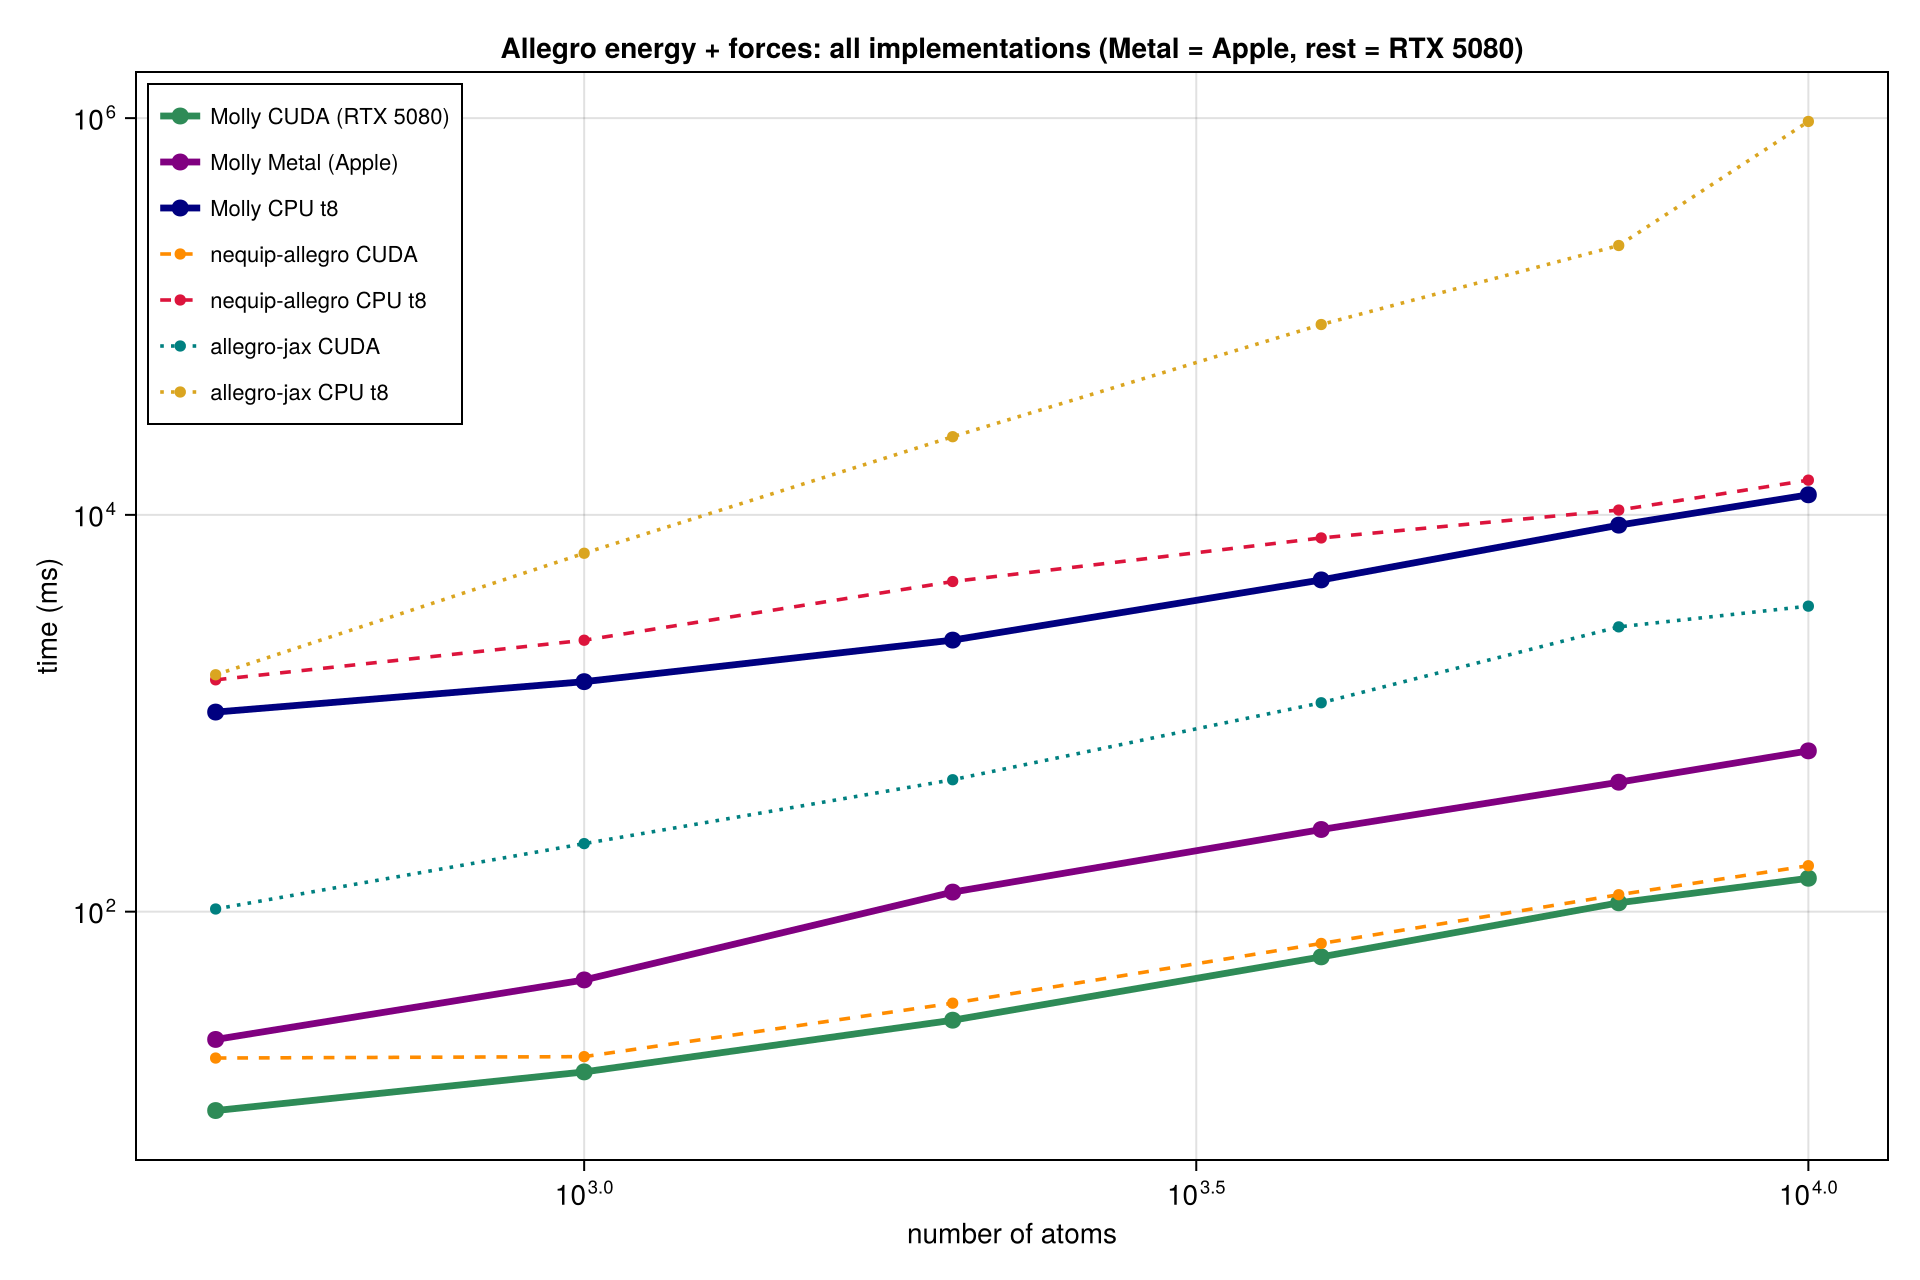
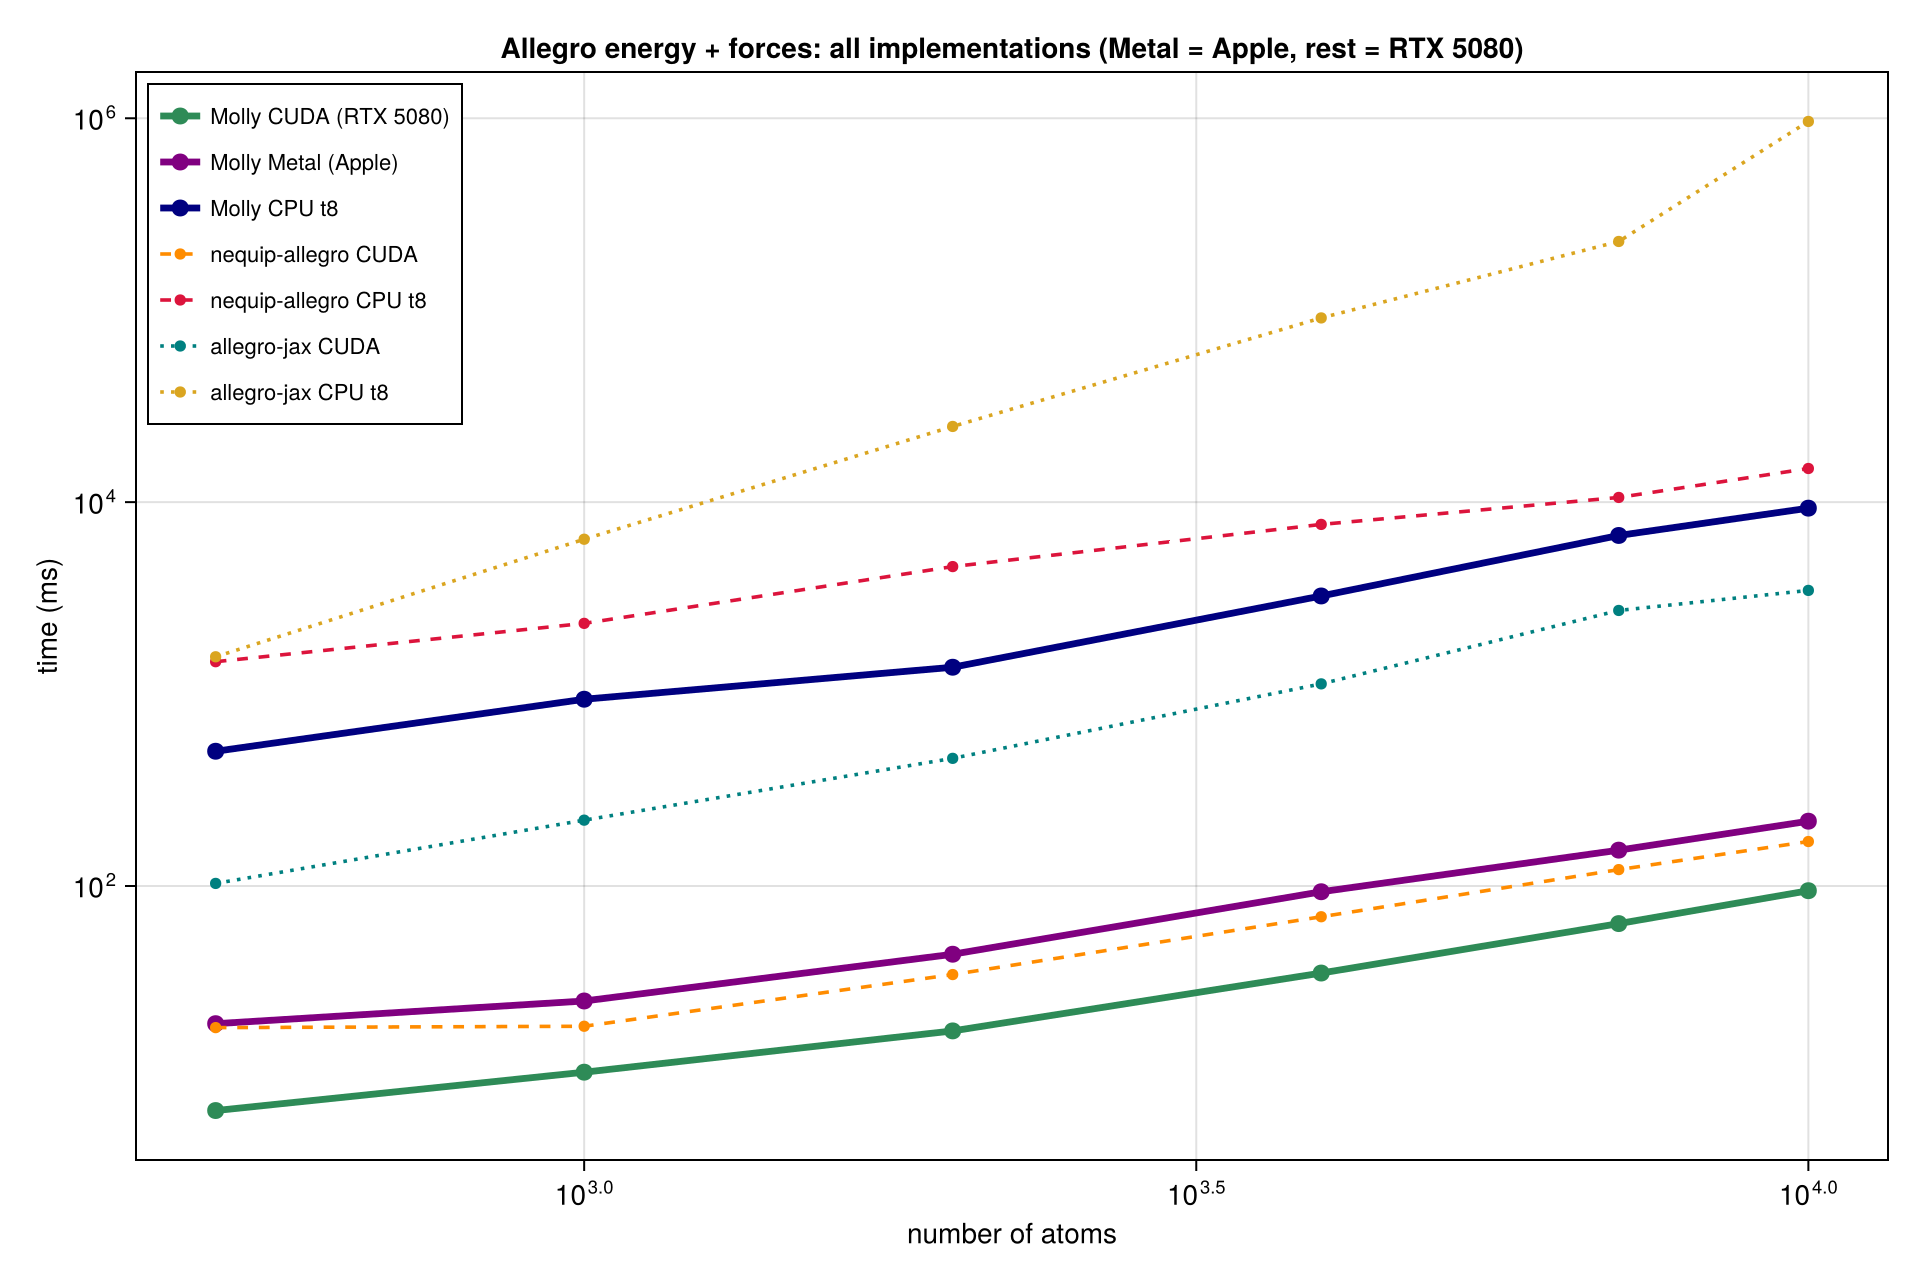
Allegro benchmarks: refresh with sparse-TP kernels — Molly now 1.6-3.5x faster than nequip on every backend

diff --git a/benchmark/allegro_benchmarks.md b/benchmark/allegro_benchmarks.md
@@ -62,45 +62,47 @@ All timings are one energy + forces evaluation in milliseconds, best of repeats,
 list precomputed (it is amortised across many MD steps; rebuilding it every step would penalise every
 implementation equally — all three pass precomputed edges). The range tops out at 10,000 atoms because
 that is the largest system the package's autograd forces fit in the 16 GB card — above ~10k nequip
-OOMs, while **Molly's analytic backward keeps going to the full 15,954-atom 6mrr system** (CUDA: 0.25 s;
-Metal: 1.1 s; CPU-t8: 18 s). `—` = not run (allegro-jax single-thread CPU past 4000 atoms is minutes
-per point).
+OOMs, while **Molly's analytic backward keeps going to the full 15,954-atom 6mrr system** on every
+backend. `—` = not run (allegro-jax single-thread CPU past 4000 atoms is minutes per point).
 
 **GPU** (`Float64` on CUDA, `Float32` on Metal):
 
 | atoms | Molly CUDA | nequip CUDA | allegro-jax CUDA | Molly Metal |
 | ---: | ---: | ---: | ---: | ---: |
-| 500   | **10**  | 18   | 103  | 23  |
-| 1000  | **16**  | 19   | 220  | 45  |
-| 2000  | **28**  | 35   | 462  | 125 |
-| 4000  | **59**  | 69   | 1130 | 259 |
-| 7000  | **111** | 122  | 2726 | 449 |
-| 10000 | **147** | 170  | 3468 | 646 |
+| 500   | **7**   | 18   | 103  | 19  |
+| 1000  | **11**  | 19   | 220  | 25  |
+| 2000  | **18**  | 35   | 462  | 44  |
+| 4000  | **35**  | 69   | 1130 | 93  |
+| 7000  | **64**  | 122  | 2726 | 154 |
+| 10000 | **94**  | 170  | 3468 | 218 |
 
 **CPU** on the RTX 5080 host (12-core), `Float64`, single thread (t1) and 8 threads (t8, run with
 `julia --gcthreads=8` so garbage collection is parallel — see below):
 
 | atoms | Molly t1 | nequip t1 | jax t1 | Molly t8 | nequip t8 | jax t8 |
 | ---: | ---: | ---: | ---: | ---: | ---: | ---: |
-| 500   | **777**   | 1485  | 1691   | **1014** | 1474  | 1564   |
-| 1000  | **1742**  | 3235  | 6780   | **1443** | 2335  | 6406   |
-| 2000  | **3581**  | 6989  | 28020  | **2338** | 4614  | 24787  |
-| 4000  | **7995**  | 16388 | 126854 | **4702** | 7653  | 91132  |
-| 7000  | **15546** | 29753 | —      | **8879** | 10577 | 228057 |
-| 10000 | **23435** | 45764 | —      | **12626**| 14969 | 962382 |
+| 500   | **451**   | 1485  | 1691   | **503**  | 1474  | 1564   |
+| 1000  | **945**   | 3235  | 6780   | **940**  | 2335  | 6406   |
+| 2000  | **2023**  | 6989  | 28020  | **1380** | 4614  | 24787  |
+| 4000  | **4733**  | 16388 | 126854 | **3244** | 7653  | 91132  |
+| 7000  | **11002** | 29753 | —      | **6703** | 10577 | 228057 |
+| 10000 | **15526** | 45764 | —      | **9302** | 14969 | 962382 |
 
 Reading it (**bold** = fastest in that row/group):
-- **CUDA — Molly wins at every size.** It is 1.1–1.9× faster than the real package across the whole
+- **CUDA — Molly wins at every size.** It is **1.8–2.7× faster** than the real package across the whole
   range, and because the analytic reverse pass has a far smaller memory footprint than the package's
-  autograd backward, **only Molly scales past ~10k atoms to the full 6mrr system** (15,954 atoms, 0.25 s)
-  — the package OOMs there. allegro-jax is 5–30× slower than Molly on CUDA.
+  autograd backward, **only Molly scales past ~10k atoms to the full 6mrr system** — the package OOMs
+  there. allegro-jax is 15–50× slower than Molly on CUDA.
 - **Metal — uncontested.** Neither the package nor allegro-jax has a `Float64` Apple-GPU path, so Molly
-  is the only Allegro that runs on Apple Silicon (16k in 1.1 s).
-- **CPU single thread (t1) — Molly wins at every size**, ~2× faster than the package and 2–16× faster
-  than allegro-jax.
-- **CPU 8 threads (t8) — Molly wins at every size too**, 1.2–2.0× faster than the package (run with
-  `--gcthreads=8` so the per-evaluation GC is parallel). A reusable workspace that removes the per-call
-  allocation entirely is the next optimisation and would widen the lead further.
+  is the only Allegro that runs on Apple Silicon (10k atoms in 0.22 s).
+- **CPU single thread (t1) — Molly wins at every size**, **2.7–3.5× faster** than the package and 4–27×
+  faster than allegro-jax.
+- **CPU 8 threads (t8) — Molly wins at every size too**, **1.6–3.3× faster** than the package (run with
+  `--gcthreads=8` so the per-evaluation GC is parallel).
+
+The GPU lead comes largely from the **sparse Wigner-3j tensor-product kernels**: ~89% of the (i,j,k)
+output components are zero by angular-momentum selection rules, so iterating only the non-zero paths
+made the dominant TP kernels ~2.5× cheaper on Metal / ~1.6× on CUDA (bit-exact; see the commit history).
 
 ### GPU speedup over host CPU (t8)
 
